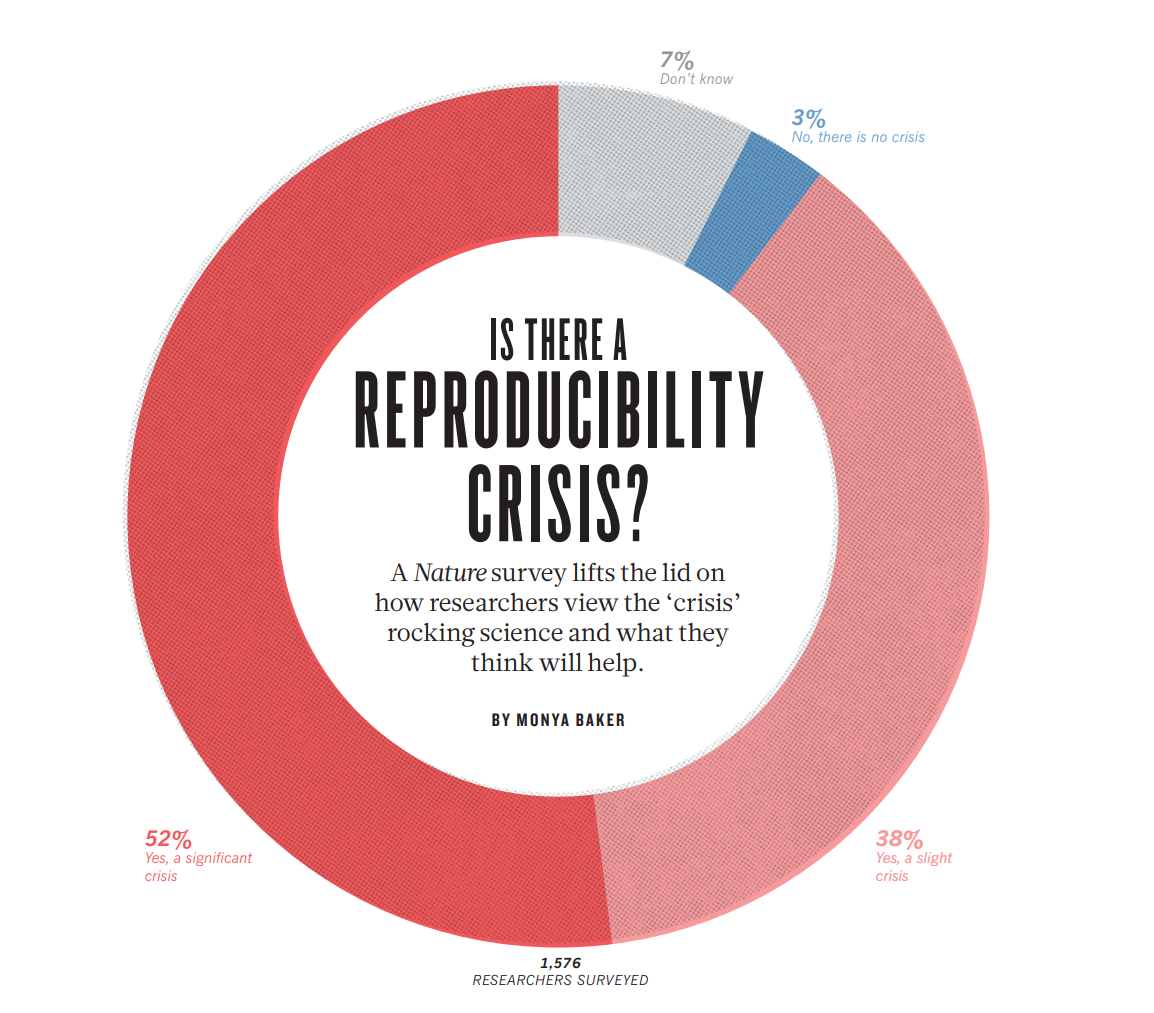
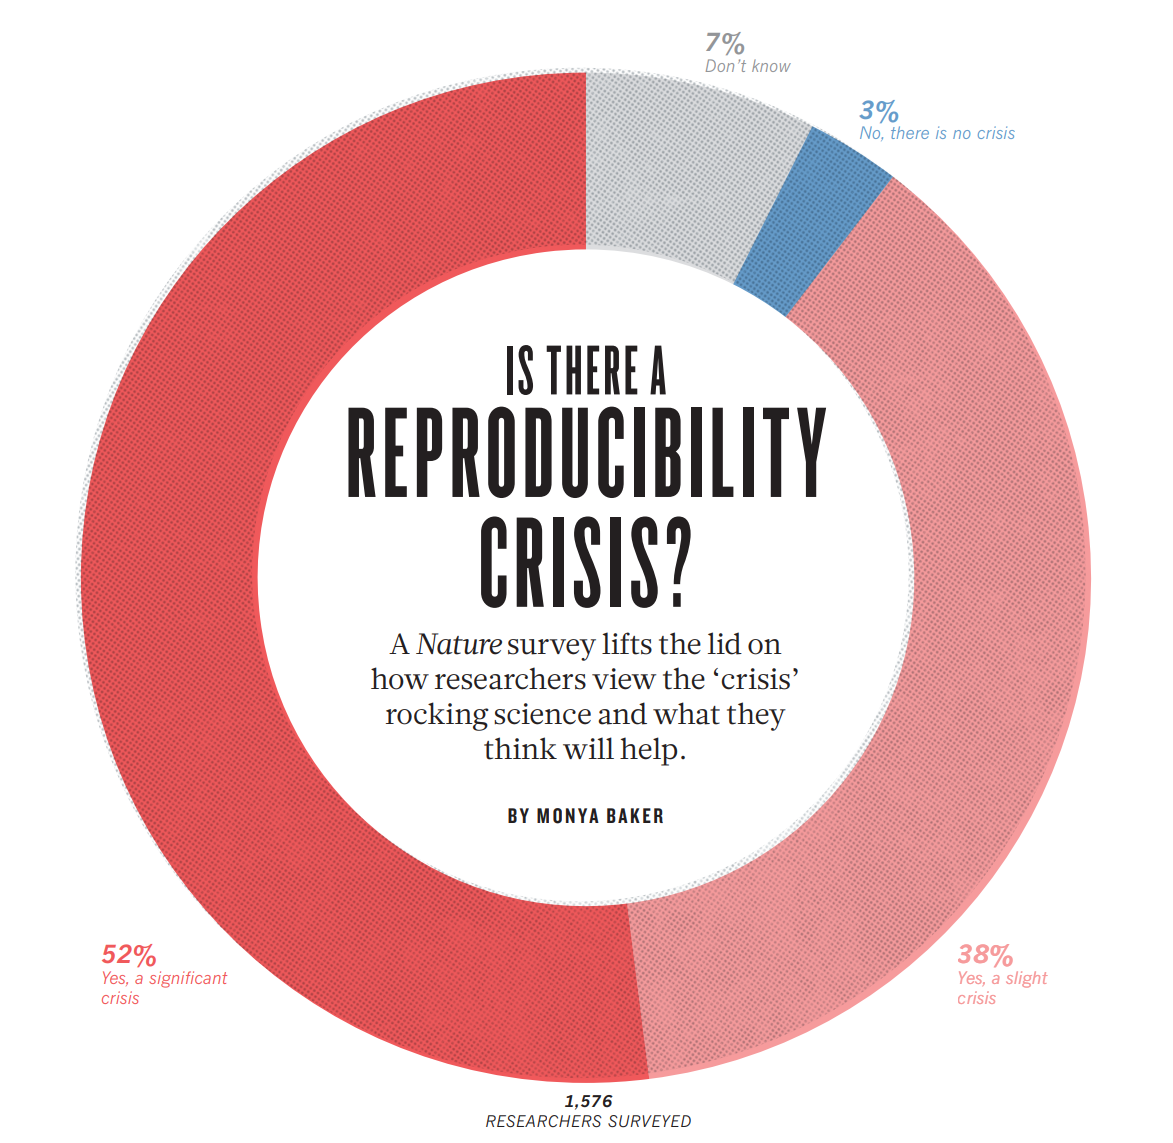
final changes

Changed region(s): [[0.0624, 0.0306, 0.9359, 1.0], [0.4055, 0.7038, 0.5615, 0.7345]]

diff --git a/index.html b/index.html
@@ -292,12 +292,13 @@ http://example.org/Human --> 8
 			</section>
 			<section>
 				<section>
-					Results
+					<p>Is there a reproducibility crisis?</p>
 				</section>
 				<section>
-					<p>Is there a reproducibility crisis?</p>
-					<img src="images/reproducibility.PNG" alt="Image 4">
+					<img height="600" src="images/reproducibility.PNG" alt="Image 4">
+					<p><a href="https://www.nature.com/articles/533452a">Nature Article on Reproducibility</a></p>
 				</section>
+				
 			</section>
 			<section>
 				<section>
